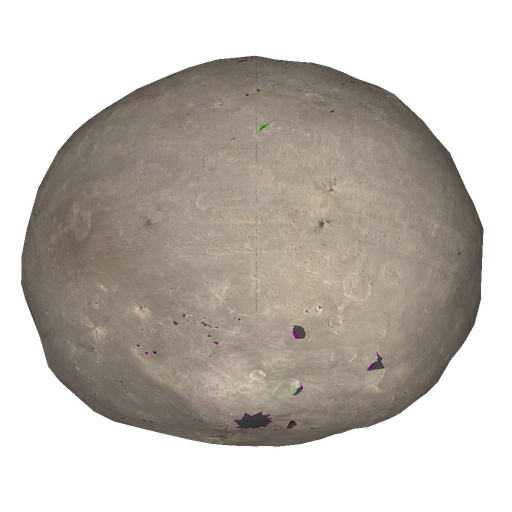
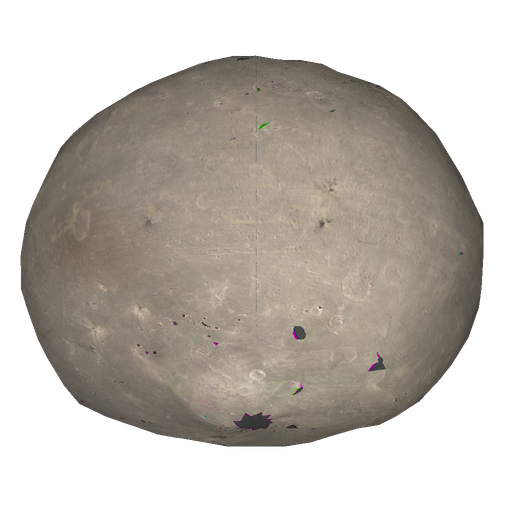
perf(vesta): reduce the raster mesh to 1216 faces

diff --git a/src/planets/vesta/SOURCE.md b/src/planets/vesta/SOURCE.md
@@ -58,10 +58,11 @@ credits. Required binaries are restored through `source/preparation/acquisition.
 
 ## Prepared presentation
 
-The original radial model supplies 1,840 retained triangles. Their positions
+The original radial model is sampled on a 20 × 32 grid into 1,216 retained
+triangles, within the requested roughly 1,200-face budget. Their positions
 are unchanged by lighting; area-weighted vertex normals provide continuous
 directional shading. The 8,192 × 4,096 normalized maps are sampled into fixed
-2,048 × 14,720 atlases. PolyCSS prepares native `u` triangles in raster mode:
+2,048 × 9,728 atlases. PolyCSS prepares native `u` triangles in raster mode:
 each leaf matches its 128 × 128 texel cell, with the inverse matrix scale
 preserving the measured geometry. The cells are opaque; the native triangle
 primitive supplies their boundary. Runtime mounts the prepared leaves and
